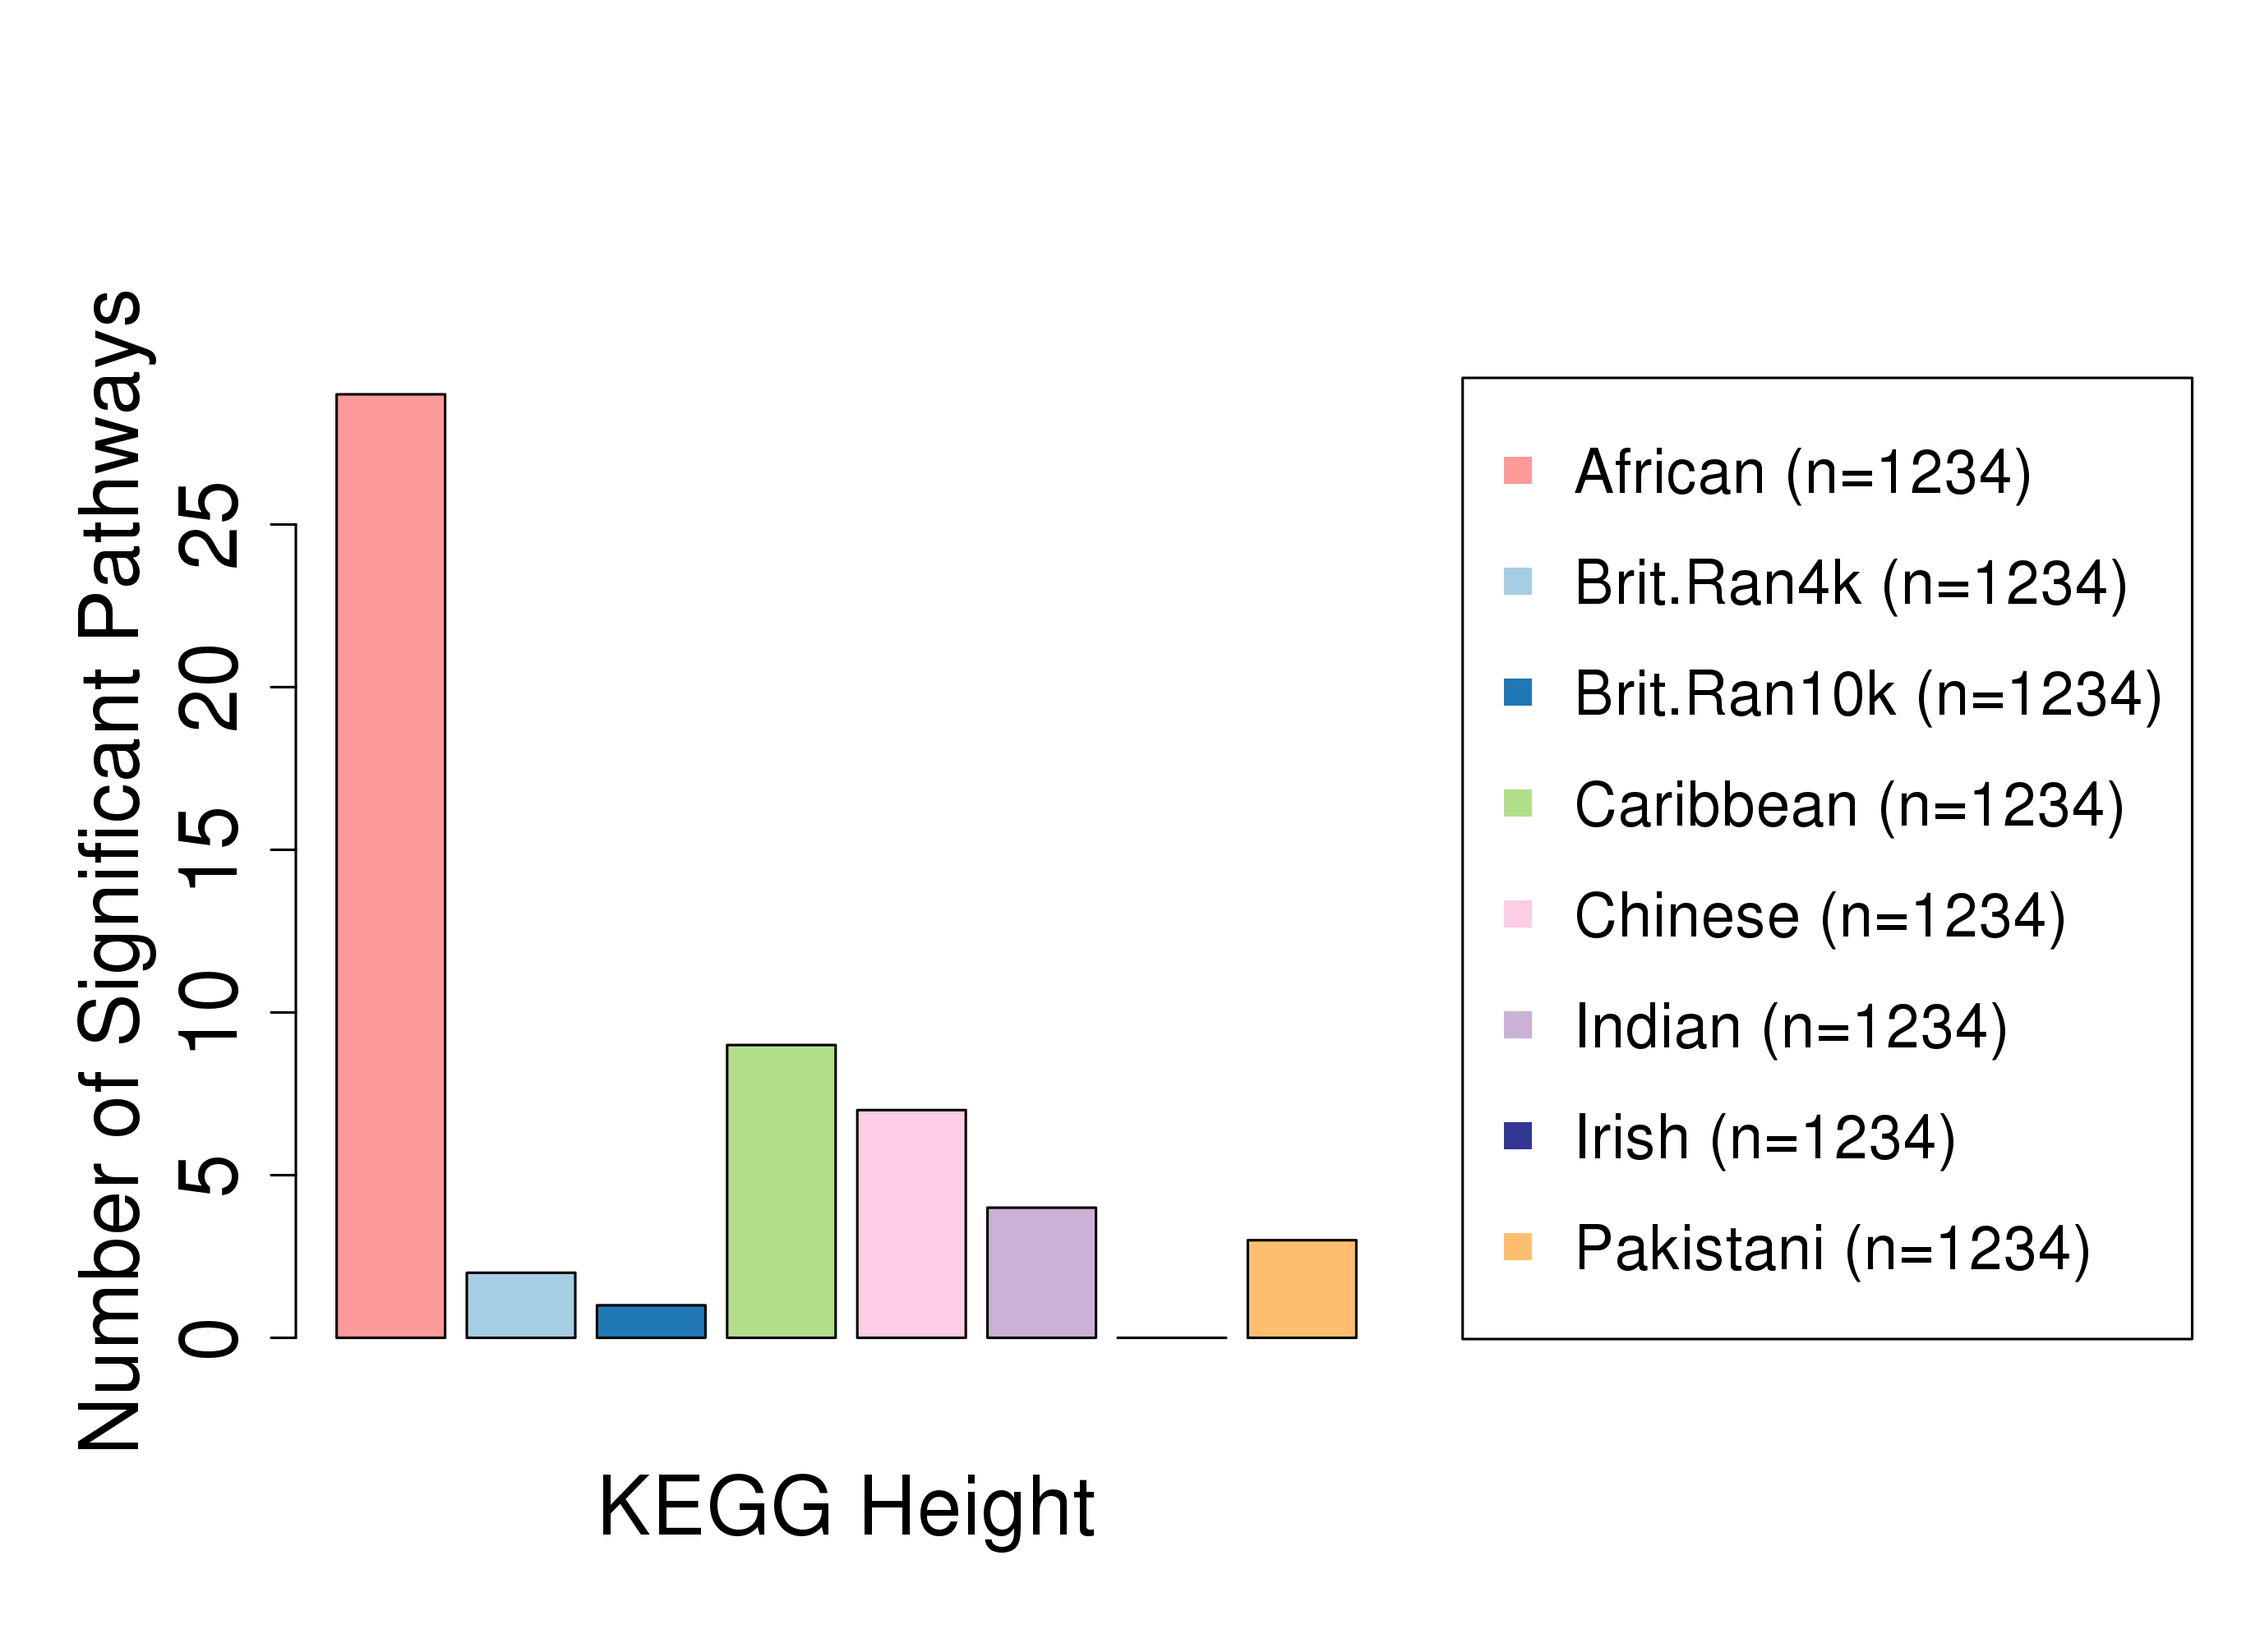
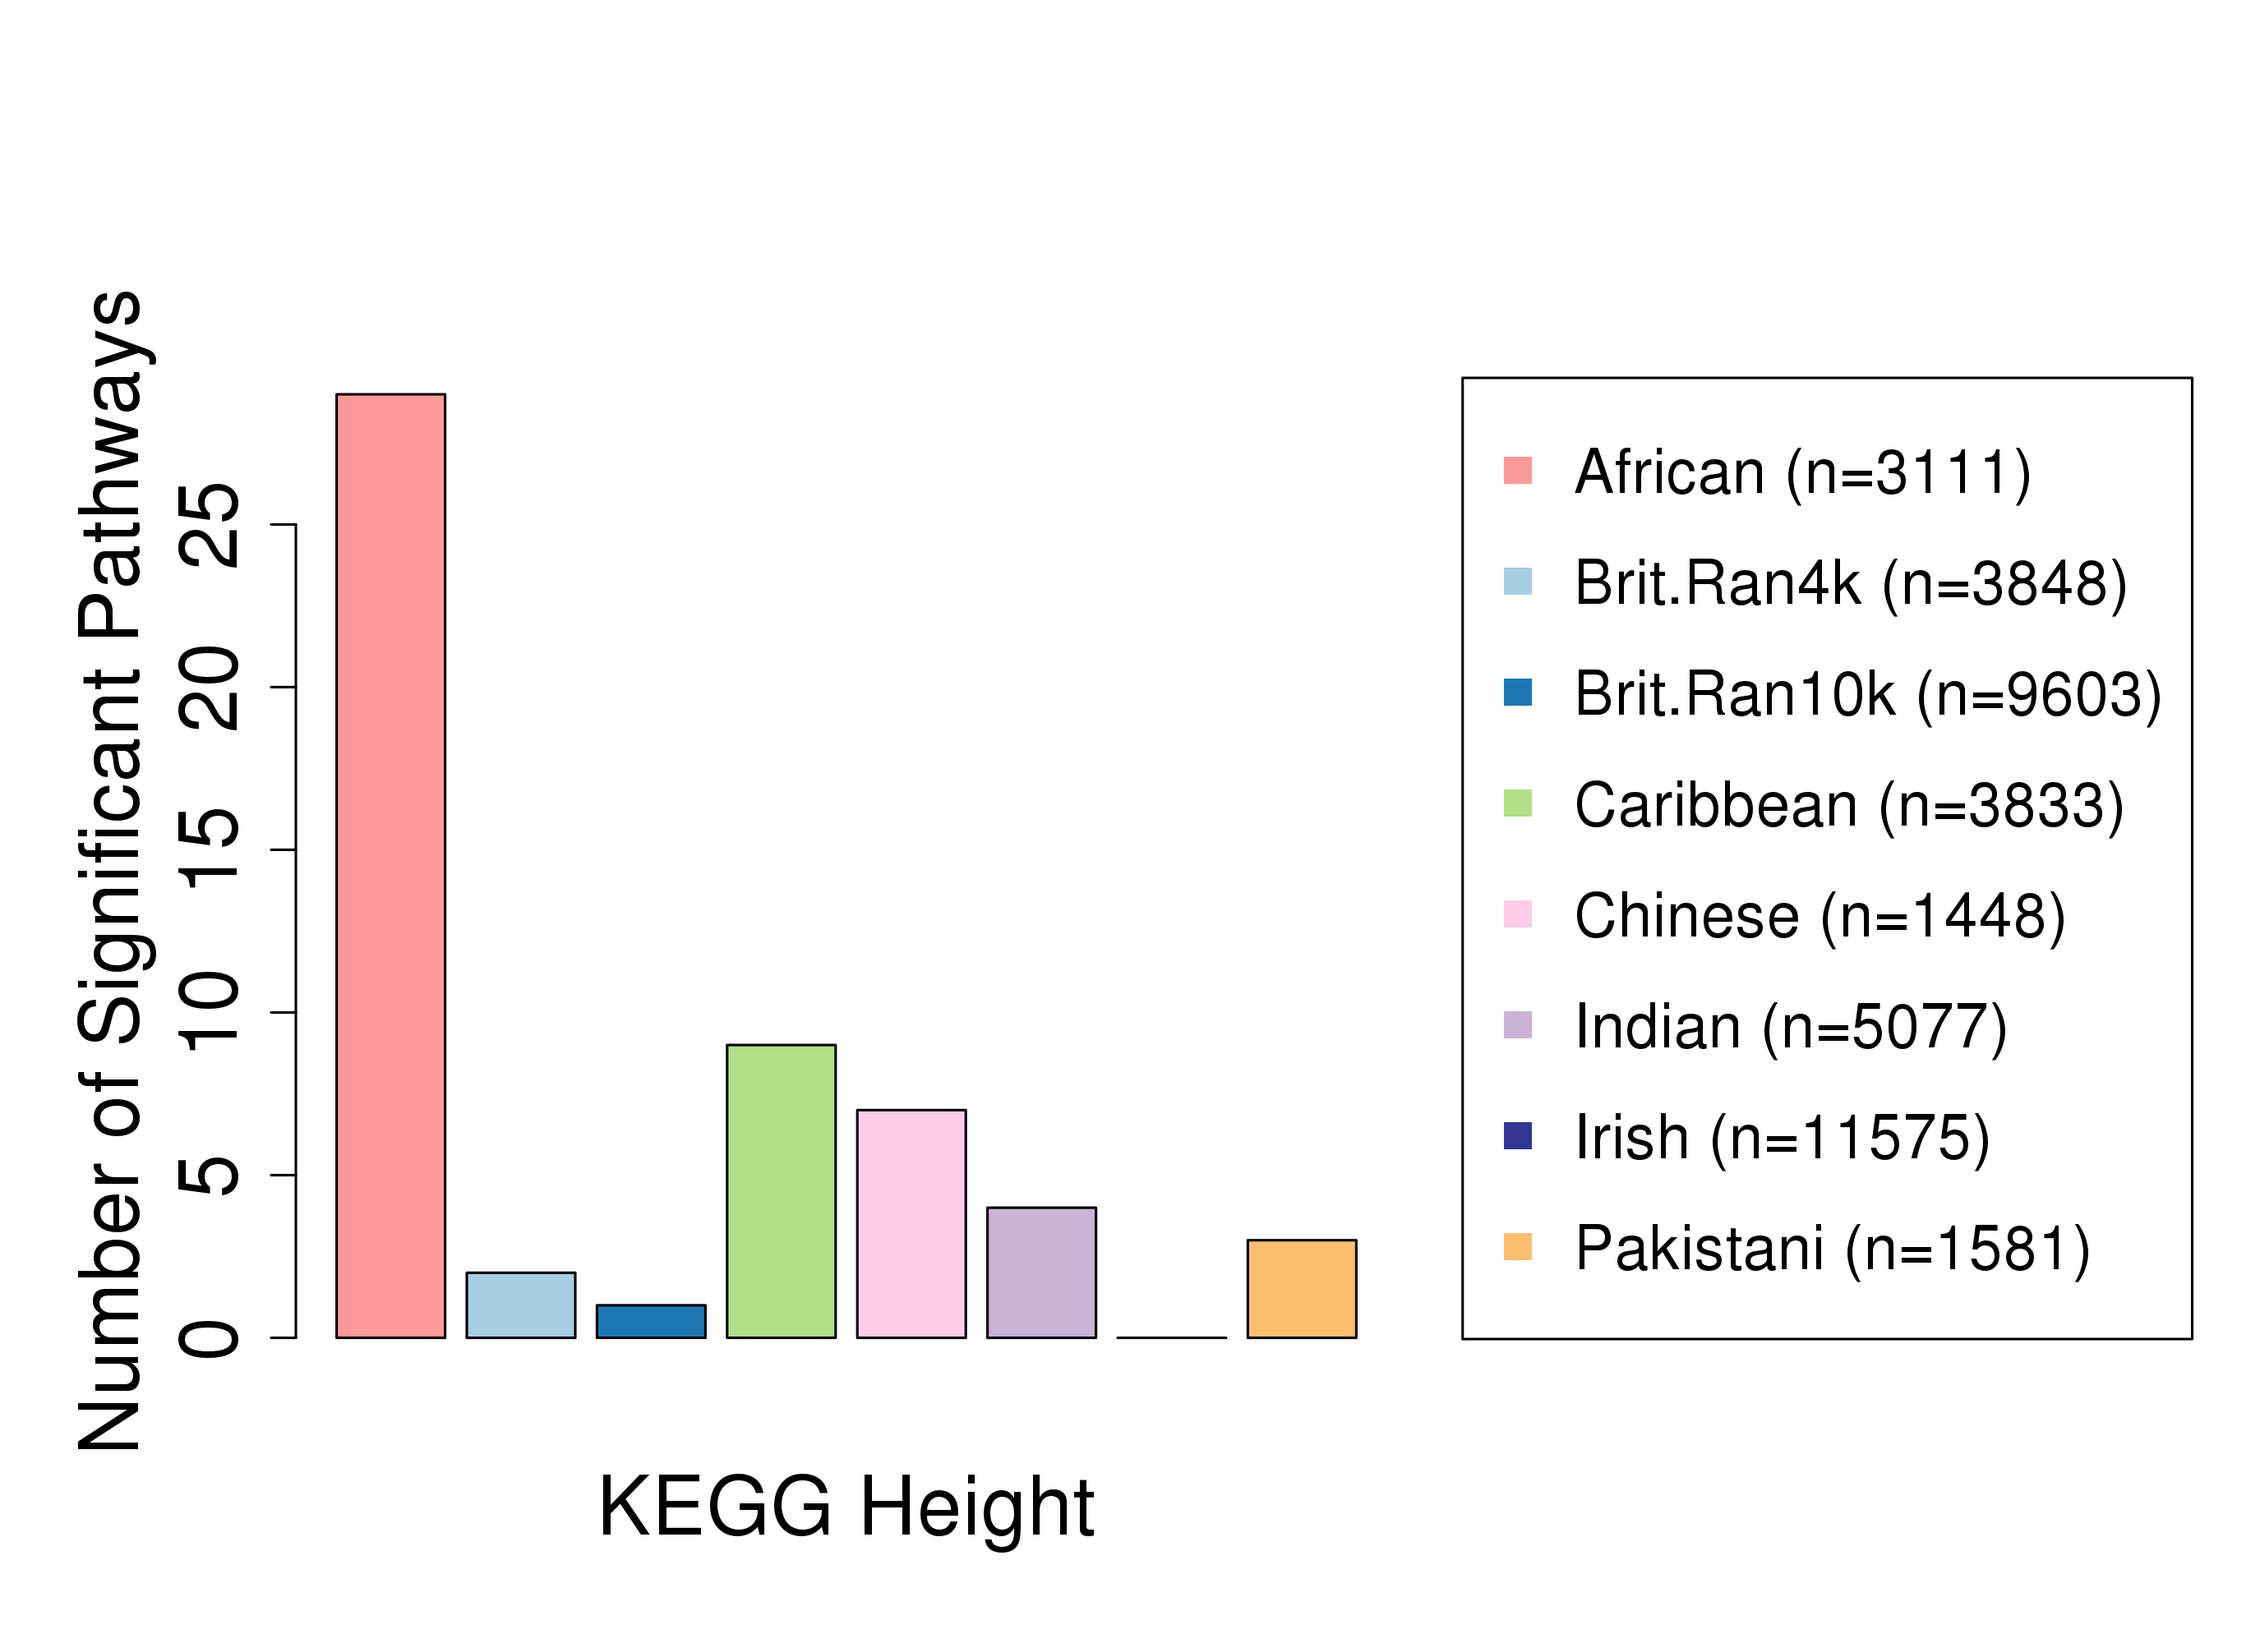
Barplot Figures updates

diff --git a/Main.tex b/Main.tex
@@ -272,7 +272,7 @@ Looking at the specific pathways that we observe as having significant evidence 
 \label{InterPath-Main-Figure-Heatplots-KEGG}
 \end{figure}
 
-\subsection{The Proteasome as a Candidate Protein Complex Enriched for Epistasic Interactions}
+\subsection{The Proteasome as a Candidate Protein Complex Enriched for Epistatic Interactions}
 
 As previously mentioned, we observe that genome-wide significant pathways across subsets tend to be the pathways with the largest numbers of SNPs. While this is not surprising given that these are the pathways which potentially have the most power to identify a positive signal, we only have a limited number of these types of pathways to compare against one another; it is unclear if these particular pathways represent interesting biology specific to our complex traits or are moreso indicative of there being widespread, but indiscriminate, epistasis across the genome. One approach to decouple significant pathways from having a large number of SNPs is to simply look at the collection of top pathways with the least number of SNPs. For example, we observe 26 number of pathways in the African BMI REACTOME analysis that included less than 1000 SNPs. To identify whether there are common biological underpinnings across these pathways, we first looked at whether any groups of genes were enriched across these pathways. And indeed, we observe for many genes that are highly represented across these pathways, that they are significantly enriched (Supplementary Tables \ref{InterPath-Supp-Tables-AllPops-TopGeneCounts-KEGG-Height-a}\textcolor{blue}{-d}).
 

diff --git a/Supplementary.tex b/Supplementary.tex
@@ -75,7 +75,7 @@ After this first round of QC procedures, we then proceeded to impute our current
 
 \begin{figure}[htbp]
 \centering
-\includegraphics[scale=.35]{Images/Supp/InterPath_Supp_Figure_Barplots_vs1.png}
+\includegraphics[scale=.35]{Images/Supp/InterPath_Supp_Figure_Barplots_vs2.png}
 \caption[TBD]{\textbf{Number of Significant Pathways from Running MAPIT-R on UKB subsets}. Shown are the number of significant pathways found from running MAPIT-R on each of our expanded collection of UKB population subsets using height and BMI in the KEGG database (REACTOME results can be found in Supplementary Figure XX). A pathway is considered significant if its MAPIT-R $p$-value is below XXX (.05 / XXX, the number of KEGG pathways tested). We find that the African population far and away has the largest number of significant pathways, both for each phenotype and for each pathway database. But in general we also tend to see significant pathways moreso in non-European populations than European populations.}
 \label{InterPath-Supp-Figure-Barplots-All}
 \end{figure}
